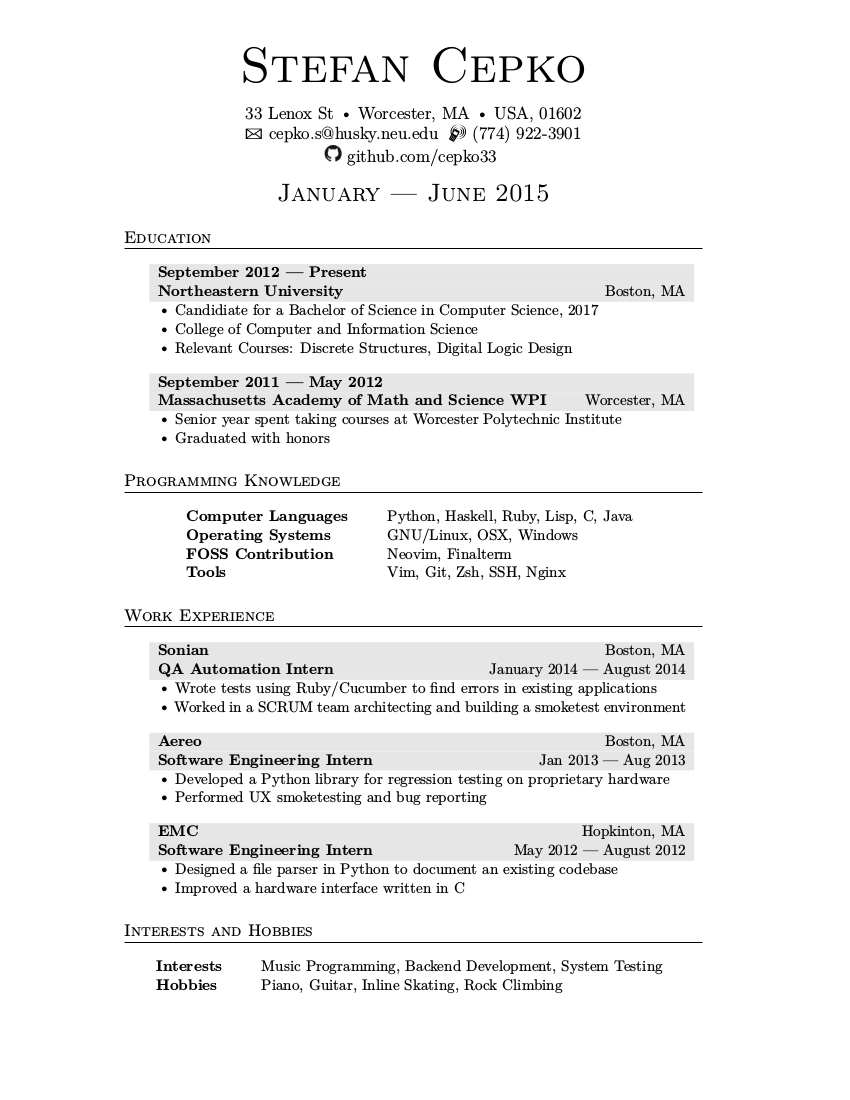
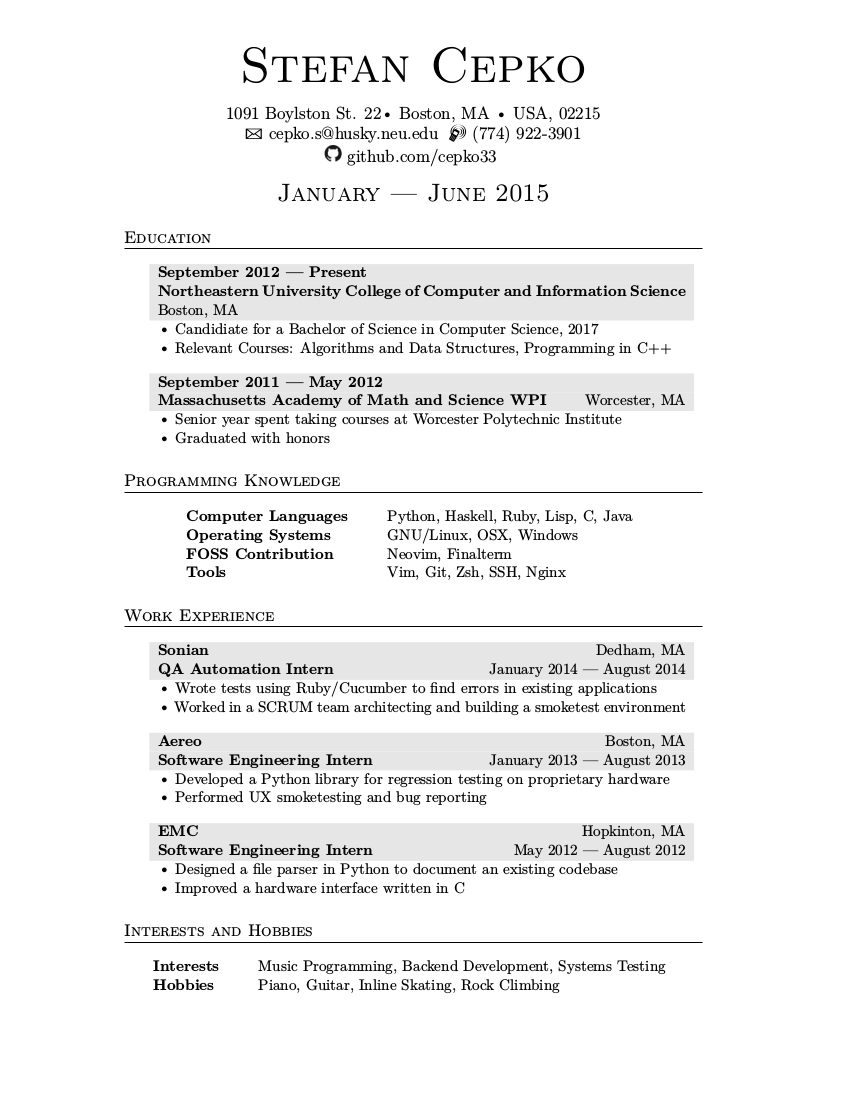
fixed address, experience courses

diff --git a/resume.tex b/resume.tex
@@ -62,7 +62,7 @@
 {
 \addfontfeature{LetterSpace=20.0}\fontsize{12.5}{15}\selectfont % Letter spacing and font size
 
-33 Lenox St {\large\textbullet} Worcester, MA {\large\textbullet} USA, 01602\\ % Your mailing address
+1091 Boylston St. #22{\large\textbullet} Boston, MA {\large\textbullet} USA, 02215\\ % Your mailing address
 {\Large\Letter} cepko.s@husky.neu.edu \ {\Large\Mobilefone} (774) 922-3901\\
 \includegraphics[width=.17in]{GitHub-Mark-32px.png} github.com/cepko33 
 }
@@ -79,10 +79,9 @@
 
 \begin{tabularx}{0.97\linewidth}{>{\raggedleft\scshape}p{0cm}X}
 &\gray \textbf{September 2012 --- Present}\\
-&\gray \textbf{Northeastern University} \hfill Boston, MA\\
+&\gray \textbf{Northeastern University College of Computer and Information Science} \hfill Boston, MA\\
 & {\large\textbullet} Candidiate for a Bachelor of Science in Computer Science, 2017 \\
-& {\large\textbullet} College of Computer and Information Science\\
-& {\large\textbullet} Relevant Courses: Discrete Structures, Digital Logic Design\\
+& {\large\textbullet} Relevant Courses: Algorithms and Data Structures, Programming in C++\\
 \end{tabularx}
 
 \vspace{10pt}
@@ -114,7 +113,7 @@ Tools & Vim, Git, Zsh, SSH, Nginx \\
 \section{Work Experience}
 
 \begin{tabularx}{0.97\linewidth}{>{\raggedleft\scshape}p{0cm}X}
-& \gray \textbf{Sonian} \hfill Boston, MA\\
+& \gray \textbf{Sonian} \hfill Dedham, MA\\
 & \gray \textbf{QA Automation Intern} \hfill January 2014 --- August 2014\\
 
 & {\large\textbullet} Wrote tests using Ruby/Cucumber to find errors in existing applications\\
@@ -126,7 +125,7 @@ Tools & Vim, Git, Zsh, SSH, Nginx \\
 
 \begin{tabularx}{0.97\linewidth}{>{\raggedleft\scshape}p{0cm}X}
 & \gray \textbf{Aereo} \hfill Boston, MA\\
-& \gray \textbf{Software Engineering Intern} \hfill Jan 2013 --- Aug 2013\\
+& \gray \textbf{Software Engineering Intern} \hfill January 2013 --- August 2013\\
 & {\large\textbullet} Developed a Python library for regression testing on proprietary hardware \\
 & {\large\textbullet} Performed UX smoketesting and bug reporting\\
 
@@ -151,7 +150,7 @@ Tools & Vim, Git, Zsh, SSH, Nginx \\
 \section{Interests and Hobbies}
 
 \begin{tabular}{ @{} >{\bfseries}l @{\hspace{6ex}} l }
-Interests & Music Programming, Backend Development, System Testing\\
+Interests & Music Programming, Backend Development, Systems Testing\\
 Hobbies & Piano, Guitar, Inline Skating, Rock Climbing
 \end{tabular}
 
